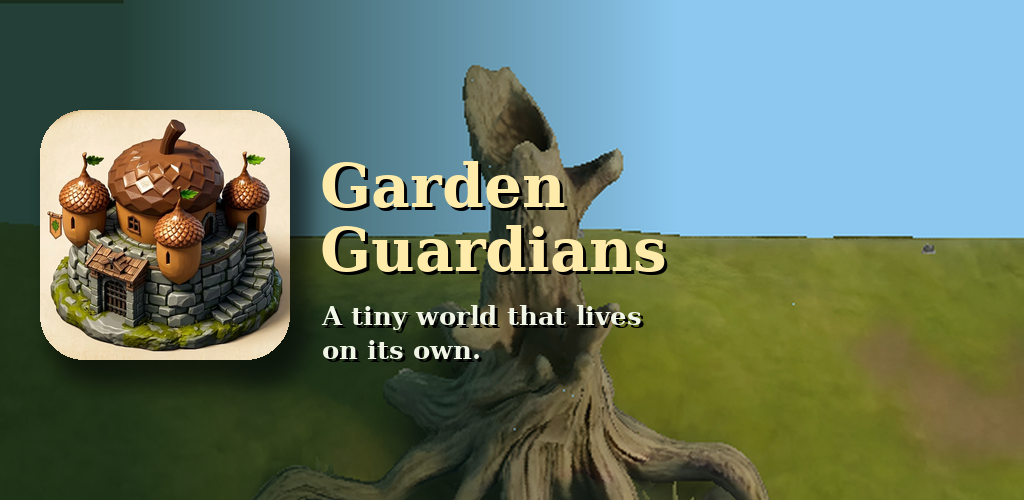
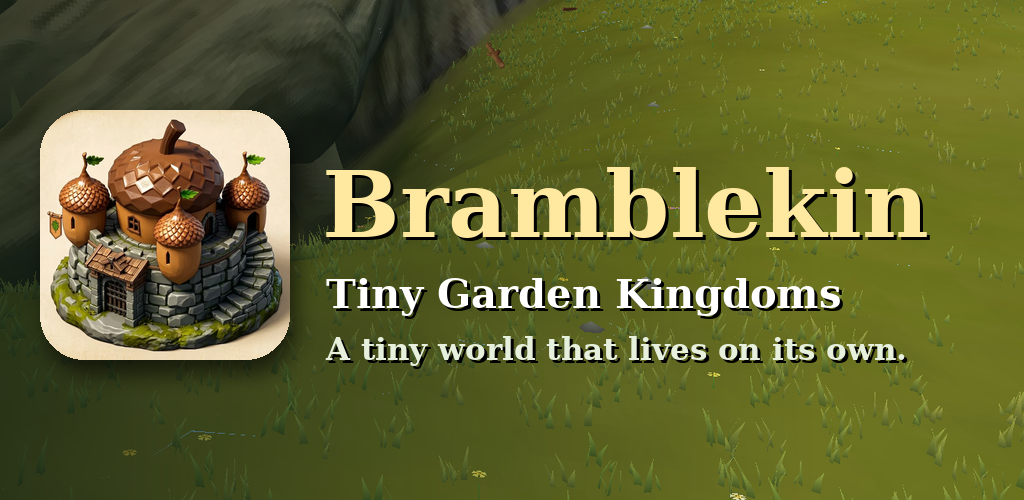
Rename the game to Bramblekin, package com.bramblekin.game
- Android package and title, activity name and label, manifest label.
- Menu and loading titles, window title.
- New feature graphic (Tools/make_feature_graphic.py) and store/listing.md.
- Docs: README and TODO. The repository, namespace and save folder keep
  their names. The AdMob ids in AdConfig.cs are still the old app's and
  must be replaced once the new AdMob app exists.

Claude-Session: https://claude.ai/code/session_01Je2t4M7dwraXXPXYZ2uvca

diff --git a/Source/Game/Game.Menu.cs b/Source/Game/Game.Menu.cs
@@ -48,7 +48,7 @@ public static partial class Game
             int buttonHeight = (int)(96 * uiScale), gap = (int)(18 * uiScale), chipHeight = (int)(68 * uiScale);
             int wide = Math.Min((int)(width * 0.8f), (int)(1000 * uiScale));
             int left = (width - wide) / 2;
-            int titleSize = FitFontSize("Garden Guardians", ScaledFontSize(2.6f), (int)(width * 0.94f)), subtitleSize = ScaledFontSize(0.8f);
+            int titleSize = FitFontSize("Bramblekin", ScaledFontSize(2.6f), (int)(width * 0.94f)), subtitleSize = ScaledFontSize(0.8f);
 
             int y = (int)(height * 0.08f);
             int titleY = y;
@@ -153,7 +153,7 @@ public static partial class Game
 
             Raylib.BeginDrawing();
             Raylib.DrawRectangleGradientV(0, 0, width, height, new Color(150, 200, 235, 255), new Color(95, 150, 80, 255));
-            DrawCentred("Garden Guardians", width / 2, titleY, titleSize, new Color(40, 55, 30, 255));
+            DrawCentred("Bramblekin", width / 2, titleY, titleSize, new Color(40, 55, 30, 255));
             settingsButton.Draw("Settings", highlighted: false);
             for (int slot = 1; slot <= SaveSystem.Slots; slot++)
                 chips[slot].Draw($"Garden {slot}", highlighted: slot == chosen, disabled: summaries[slot] is null && slot != chosen);
@@ -209,11 +209,11 @@ public static partial class Game
         SyncWindowSize();
         float uiScale = UiScale;
         int width = Raylib.GetScreenWidth(), height = Raylib.GetScreenHeight();
-        int titleSize = FitFontSize("Garden Guardians", ScaledFontSize(2.6f), (int)(width * 0.94f)), textSize = ScaledFontSize(0.9f);
+        int titleSize = FitFontSize("Bramblekin", ScaledFontSize(2.6f), (int)(width * 0.94f)), textSize = ScaledFontSize(0.9f);
         Color ink = new(40, 55, 30, 255);
         Raylib.BeginDrawing();
         Raylib.DrawRectangleGradientV(0, 0, width, height, new Color(150, 200, 235, 255), new Color(95, 150, 80, 255));
-        DrawCentred("Garden Guardians", width / 2, (int)(height * 0.08f), titleSize, ink);
+        DrawCentred("Bramblekin", width / 2, (int)(height * 0.08f), titleSize, ink);
         int barWidth = Math.Min((int)(width * 0.7f), (int)(900 * uiScale)), barHeight = (int)(44 * uiScale);
         int barX = (width - barWidth) / 2, barY = (int)(height * 0.45f);
         DrawCentred(Loading.Text + "...", width / 2, barY - textSize - (int)(24 * uiScale), textSize, ink);

diff --git a/Tools/make_feature_graphic.py b/Tools/make_feature_graphic.py
@@ -1,0 +1,35 @@
+"""Makes store/feature-graphic-1024x500.png: a game screenshot as the backdrop, the icon, the name and a line. Run from the repo root."""
+from PIL import Image, ImageDraw, ImageFont, ImageFilter
+
+W, H = 1024, 500
+bg = Image.open('store/screenshot-oak-1920x1080.png').convert('RGB')
+# The lower right of the picture, clear of the game's buttons along the top and left.
+bg = bg.crop((700, 1080 - 596, 1920, 1080)).resize((W, H), Image.LANCZOS)
+img = bg
+
+# A dark fade from the left so the text reads on any backdrop.
+fade = Image.new('L', (W, H))
+fd = ImageDraw.Draw(fade)
+for x in range(W):
+    fd.line([(x, 0), (x, H)], fill=max(0, int(190 * (1 - x / (W * 0.8)))))
+img = Image.composite(Image.new('RGB', (W, H), (18, 30, 20)), img, fade)
+
+icon = Image.open('store/icon-512.png').convert('RGBA').resize((250, 250), Image.LANCZOS)
+mask = Image.new('L', (250, 250), 0)
+ImageDraw.Draw(mask).rounded_rectangle((0, 0, 249, 249), 44, fill=255)
+shadow = Image.new('RGBA', (W, H), (0, 0, 0, 0))
+shadow.paste((0, 0, 0, 150), (46, 124), mask)
+img = Image.alpha_composite(img.convert('RGBA'), shadow.filter(ImageFilter.GaussianBlur(10)))
+img.paste(icon, (40, 110), mask)
+
+d = ImageDraw.Draw(img)
+bold = '/usr/share/fonts/truetype/dejavu/DejaVuSerif-Bold.ttf'
+title, sub = ImageFont.truetype(bold, 92), ImageFont.truetype(bold, 31)
+def text(xy, s, font, fill):
+    x, y = xy
+    d.text((x + 3, y + 3), s, font=font, fill=(0, 0, 0, 255))
+    d.text(xy, s, font=font, fill=fill)
+text((322, 150), 'Bramblekin', title, (255, 232, 160, 255))
+text((326, 270), 'Tiny Garden Kingdoms', ImageFont.truetype(bold, 40), (255, 255, 255, 255))
+text((326, 330), 'A tiny world that lives on its own.', sub, (230, 240, 220, 255))
+img.convert('RGB').save('store/feature-graphic-1024x500.png')

diff --git a/Source/Game/Game.cs b/Source/Game/Game.cs
@@ -301,13 +301,13 @@ public static partial class Game
         // GetScreenHeight() rather than the ScreenWidth/ScreenHeight
         // constants, so it fills whatever size that turns out to be.
         if (platform == GamePlatform.Android)
-            Raylib.InitWindow(0, 0, "Garden Guardians");
+            Raylib.InitWindow(0, 0, "Bramblekin");
         else
         {
             // (GARDEN_SIZE=720x1280: a development aid, opens the window at another shape, to look at the upright layout.)
             int[] size = (Environment.GetEnvironmentVariable("GARDEN_SIZE") ?? "").Split('x').Select(part => int.TryParse(part, out int n) ? n : 0).ToArray();
             bool sized = size.Length == 2 && size[0] > 0 && size[1] > 0;
-            Raylib.InitWindow(sized ? size[0] : ScreenWidth, sized ? size[1] : ScreenHeight, "Garden Guardians");
+            Raylib.InitWindow(sized ? size[0] : ScreenWidth, sized ? size[1] : ScreenHeight, "Bramblekin");
             Image icon = Raylib.LoadImage("Assets/icon.png");
             if (icon.Width > 0)
                 Raylib.SetWindowIcon(icon);

diff --git a/Platforms/Android/AdConfig.cs b/Platforms/Android/AdConfig.cs
@@ -2,7 +2,7 @@ using Android.App;
 
 // The app id is the game's own (from the AdMob console) in every build. AdMob ties an app id to the package name of the app
 // registered under it (the store listing it is linked to): the SDK is refused the app's settings (HTTP 403, "Not retrying to fetch
-// app settings") when the package of the running app, com.gardenguardians.game, is not that one. The sample app id and the id of
+// app settings") when the package of the running app, com.bramblekin.game, is not that one. The sample app id and the id of
 // another app were refused the same way. Debug builds (the APKs CI makes for every branch) ask for Google's TEST banner unit, which
 // always fills with a clearly marked test ad and is safe to tap; Release builds ask for the game's own banner unit. Do not tap live
 // ads while testing: clicking your own ads can get an AdMob account suspended.

diff --git a/Platforms/Android/MainActivity.cs b/Platforms/Android/MainActivity.cs
@@ -25,8 +25,8 @@ using Android.Util;
 namespace GardenGuardians;
 
 [Activity(
-    Name = "com.gardenguardians.game.MainActivity",   // Stable Java name (used by adb/tests).
-    Label = "Garden Guardians",
+    Name = "com.bramblekin.game.MainActivity",   // Stable Java name (used by adb/tests).
+    Label = "Bramblekin",
     MainLauncher = true,
     Exported = true,
     Theme = "@android:style/Theme.NoTitleBar.Fullscreen",

diff --git a/Garden_Guardians_TODO.md b/Garden_Guardians_TODO.md
@@ -8,6 +8,7 @@ Legend: `[ ]` to do, `[~]` waiting on something outside the code, `[x]` done.
 
 ## 1. Waiting on others (no code until these clear)
 
+*   `[ ]` **The game is now called Bramblekin (package `com.bramblekin.game`).** Create a new Play Console app and a new AdMob app for that package; send the new AdMob App ID and banner unit ID so they go in `Platforms/Android/AdConfig.cs`; upload the feature graphic and text from `store/` (see `store/listing.md`). The old `com.gardenguardians.game` listing is unpublished; AdMob refused every ad request from it (HTTP 403, even for Google's test ads), the reason it was dropped.
 *   `[~]` **AdMob approval of "Garden Guardians".** The banner fails with HTTP 403. The ads code is not the cause: the GG Ad Test app (Tools/AdTest, a plain screen with Google's sample app id and test unit) shows a test ad as `com.gardenguardians.adtest`, but the very same app gets 403 when built as `com.gardenguardians.game`, as does the game itself. Google refuses that package name (AdMob "Requires review", or a sideloaded APK whose signing certificate is not the one Play knows). Check AdMob > Policy center and the app's status; ask AdMob support with this evidence if it stays. app-ads.txt is verified (`https://game-guardians.onrender.com/app-ads.txt`).
 *   `[~]` **Test the app installed from Google Play** (Internal testing track), with the tablet added under AdMob > Settings > Test devices. A sideloaded debug APK may never get ads for a store-linked app (signing certificate); the Play-installed one should.
 *   `[ ]` **When AdMob approves the app:** check the Release build's banner on a real phone; remove the Debug-only ad diagnostics from the stats bar (the `Banner ad`, `Ad probes`, `Ad setup`, `Ad net` and `Ad SDK log` lines; the SDK log also shows Android's own codec warnings, which are harmless).

diff --git a/store/listing.md b/store/listing.md
@@ -1,0 +1,29 @@
+# Google Play listing text
+
+**App name** (30 characters at most): `Bramblekin: Tiny Kingdoms` (25). The wanted "Bramblekin: Tiny Garden Kingdoms" is 32 characters, two too many for the app name field, so
+use `Bramblekin` alone as the name and put "Tiny Garden Kingdoms" in the short description and the feature graphic (which already says it).
+
+**Short description** (80 at most):
+`Watch tiny Bramblekin clans grow into villages and kingdoms in a living garden.` (79)
+
+**Full description** (4000 at most):
+
+> Bramblekin: Tiny Garden Kingdoms is a small world that lives on its own.
+>
+> In a garden full of grass, water and giant trees, tiny Bramblekin are born, grow up, find food and drink, build homes and raise families.
+> Clans join into villages, villages ally into kingdoms, and everything that happens is the kin's own doing: hunters, fishers, guards,
+> headmen and kings, hard winters, sickness, raiders and the thief ants of the ant hill.
+>
+> Watch the whole garden from above, tap any Bramblekin or home to see who they are, or step down into the grass and explore on foot.
+> Walk, run, pick up food and materials, and look through your item bag while the kin eat and drink on their own.
+>
+> - A living simulation: nobody is scripted, every garden turns out differently
+> - Villages, kingdoms, borders, alliances and wars
+> - Seasons and weather, food and water, a day and a night
+> - Explore mode: walk and run through the garden, pick things up
+> - Plays upright or sideways; three save slots
+> - Free, with a banner ad
+
+**Category:** Simulation. **Contains ads:** yes.
+
+**Package name:** `com.bramblekin.game` (cannot be changed once uploaded).

diff --git a/store/README.md b/store/README.md
@@ -11,4 +11,4 @@
 | `screenshot-town2-landscape-1920x1080.png` | Phone screenshots | 16:9, another village |
 | `screenshot-town-portrait-1080x1920.png` | Phone screenshots | 9:16, Bramblekin at work in a village |
 
-Google Play takes 2 to 8 phone screenshots (PNG or JPEG, up to 8 MB each, exactly 16:9 or 9:16, each side 320 to 3840 px). All of these meet that. The screenshots were rendered by the Release build on a virtual display (`GARDEN_SIZE`, `GARDEN_SCREENSHOT`, see the README); replace them with shots from a phone if you like. The town shots come from a garden grown by the headless simulation (`GARDEN_START_ERA=2 dotnet run ... -- --headless 4000 --seed 5 --save garden.json`, copied over the saved garden) with `GARDEN_CAMERA=village:1`; alerts were switched off for them (`alerts=Off` in settings.txt). The feature graphic is a first draft: swap in better art when there is some.
+Google Play takes 2 to 8 phone screenshots (PNG or JPEG, up to 8 MB each, exactly 16:9 or 9:16, each side 320 to 3840 px). All of these meet that. The screenshots were rendered by the Release build on a virtual display (`GARDEN_SIZE`, `GARDEN_SCREENSHOT`, see the README); replace them with shots from a phone if you like. The town shots come from a garden grown by the headless simulation (`GARDEN_START_ERA=2 dotnet run ... -- --headless 4000 --seed 5 --save garden.json`, copied over the saved garden) with `GARDEN_CAMERA=village:1`; alerts were switched off for them (`alerts=Off` in settings.txt). The feature graphic is made by `Tools/make_feature_graphic.py` (a screenshot, the icon and the name); swap in better art when there is some. The listing text is in `listing.md`.

diff --git a/README.md b/README.md
@@ -1,5 +1,5 @@
 # Garden_Guardians
-Garden Guardians
+Bramblekin: Tiny Garden Kingdoms (the game was called Garden Guardians while it was built; the repository and the source folders keep that name)
 
 An emergent survival simulation set in a hilly backyard modelled in 3D, at the foot of a giant oak and beside a pond, where the Bramblekin live in villages of acorns. You watch, tap any Bramblekin to follow it and see what makes it tick, or take the wheel of one yourself.
 
